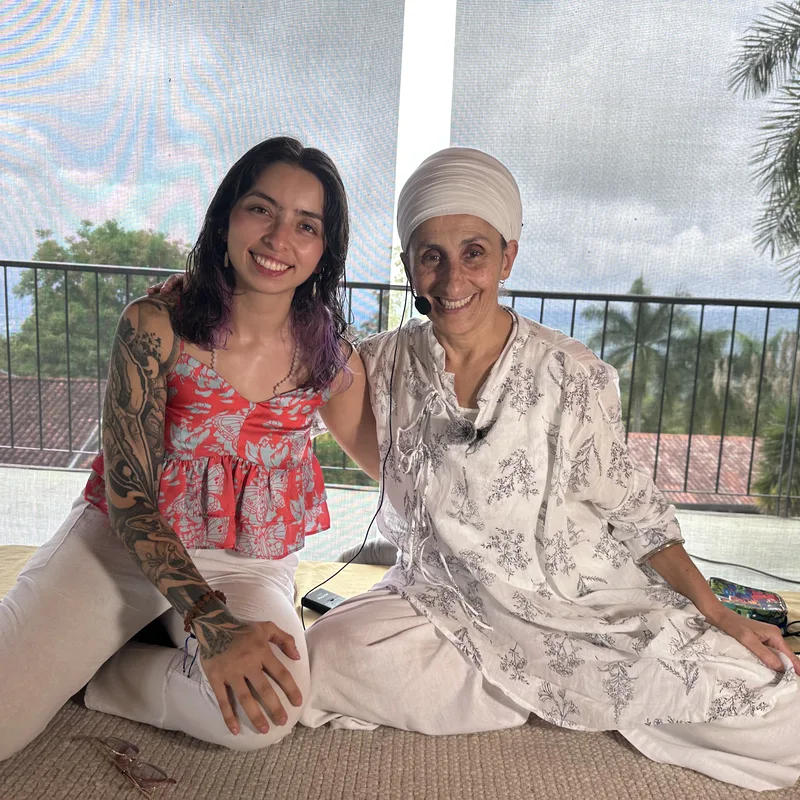
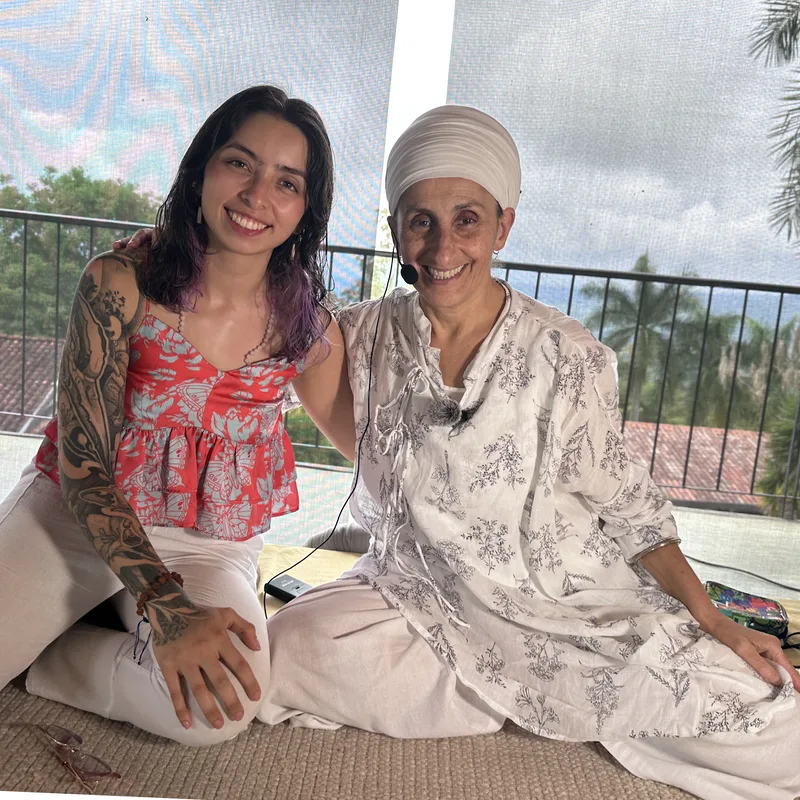
fix(review): reconcile visual crops and location data for service catalog and bio
- re-crop Barras de Access® asset (IMG_0455.HEIC -> barras-access.webp) focusing on therapeutic hands and recipient face
- level horizon and balcony railing on bio portrait with Nam Nidhan Kaur (IMG_1994.HEIC -> namaste-bio.webp, +2.5° rotation)
- correct Valledupar postal code from 200005 to 200001 in Contact section and specification
- maintain sub-150KB WebP asset budget and test suite hermeticity (17/17 passing)

diff --git a/index.html b/index.html
@@ -456,7 +456,7 @@
                         rel="noopener noreferrer"
                         class="group inline-block transition hover:text-emerald"
                       >
-                        <span class="group-hover:underline">Calle 7 #19B-88 Apto 102, Valledupar, Colombia, 200005</span><br />
+                        <span class="group-hover:underline">Calle 7 #19B-88 Apto 102, Valledupar, Colombia, 200001</span><br />
                         <span class="text-xs text-forest/60 group-hover:text-emerald/80">(Atención presencial y a domicilio)</span>
                       </a>
                     </p>

diff --git a/docs/specs/landing-page-brief.md b/docs/specs/landing-page-brief.md
@@ -139,7 +139,7 @@ Prospective clients frequently experience the overwhelm, chronic stress, anxiety
   - **Instagram:** `https://www.instagram.com/elcorazoncomoportal` (`@elcorazoncomoportal`)
   - **YouTube:** `https://www.youtube.com/@Elcorazóncomoportal` (`@Elcorazóncomoportal`)
   - **X (Twitter):** `https://x.com/Elcorazoncp` (`@Elcorazoncp`)
-  - **Dirección & Ubicación:** Calle 7 #19B-88 Apto 102, Valledupar, Colombia, 200005 (enlace a Google Maps `https://maps.app.goo.gl/FbaV2eRCWbsK8Hnt5` con `target="_blank" rel="noopener noreferrer"`).
+  - **Dirección & Ubicación:** Calle 7 #19B-88 Apto 102, Valledupar, Colombia, 200001 (enlace a Google Maps `https://maps.app.goo.gl/FbaV2eRCWbsK8Hnt5` con `target="_blank" rel="noopener noreferrer"`).
 - **Floating WhatsApp Anchor:** Persistent action button anchored at bottom-right with touch target $\ge 48$px.
 
 ---
@@ -170,7 +170,7 @@ Prospective clients frequently experience the overwhelm, chronic stress, anxiety
    - `@type: LocalBusiness / HealthAndBeautyBusiness`
    - Name: *El Corazón como Portal*
    - Founder: *Seva Surpreet Kaur*
-   - Address: *Calle 7 #19B-88 Apto 102, Valledupar, Colombia, 200005*
+   - Address: *Calle 7 #19B-88 Apto 102, Valledupar, Colombia, 200001*
    - GeoCoordinates / AreaServed: *Valledupar, Colombia, and Global Virtual Sessions*
    - Offers: *Mentorías y Oidaterapia, Clases de Kundalini Yoga, Barras de Access®, Procesos de Cuerpo, Meditaciones Personalizadas*
 
